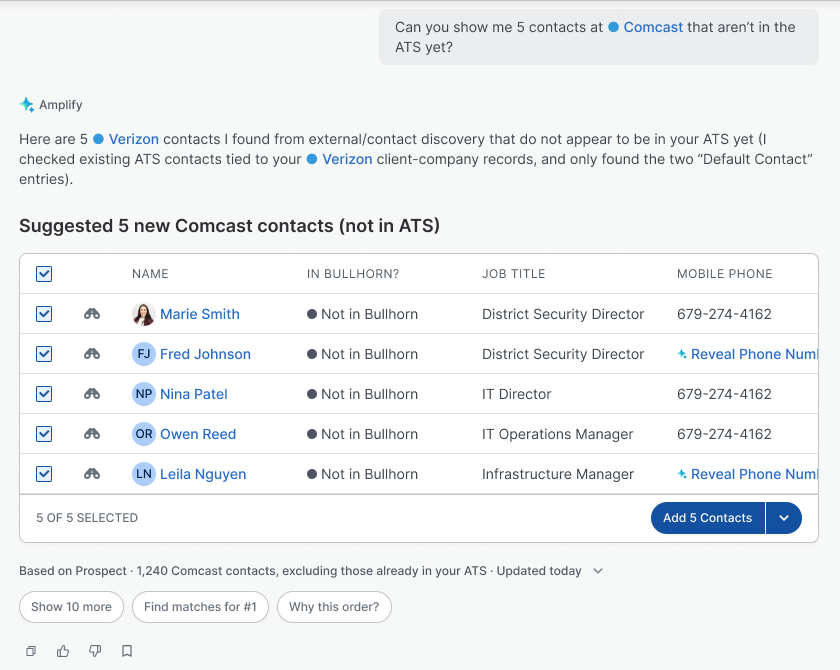
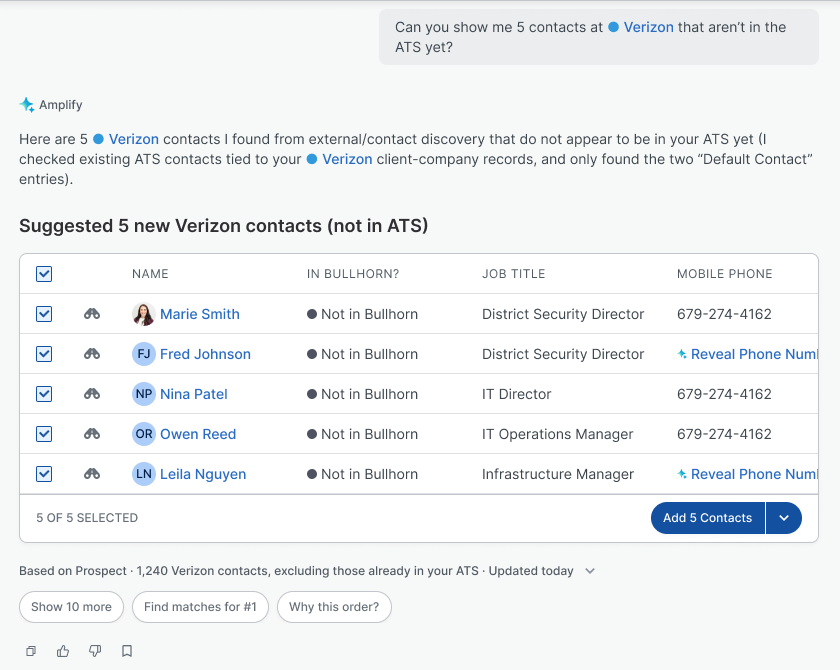
Update response structure and record preview images

Changed region(s): [[0.1857, 0.8358, 0.7119, 0.8657], [0.1857, 0.3284, 0.5262, 0.3582], [0.7429, 0.0299, 0.9595, 0.0597]]

diff --git a/docs/amplify/amplify-chat-interface-patterns.html b/docs/amplify/amplify-chat-interface-patterns.html
@@ -52,7 +52,7 @@
 <p>Every reply follows the same top-to-bottom order, so replies are predictable to scan and the answer always comes first (NN/g truncated pyramid; Gestalt continuity).</p>
 <figure class="anno">
 <div class="anno-wrap">
-<img src="../images/amplify-chat/response-structure.png" alt="An Amplify reply listing 5 Comcast contacts in a data table, with labeled parts">
+<img src="../images/amplify-chat/response-structure.png" alt="An Amplify reply listing 5 Verizon contacts in a data table, with labeled parts">
 <span class="mk" style="top:6%">1</span><span class="mk" style="top:15.5%">2</span><span class="mk" style="top:23.6%">3</span><span class="mk" style="top:33.7%">4</span><span class="mk" style="top:40.7%">5</span><span class="mk" style="top:77.3%">6</span><span class="mk" style="top:85.2%">7</span><span class="mk" style="top:90.6%">8</span><span class="mk" style="top:97.2%">9</span>
 </div>
 <figcaption>Prospect contacts reply · <a href="https://www.figma.com/design/QxXJfpYajGitTbThkkQCXm/Component-Migration?node-id=6267-181805" target="_blank" rel="noopener">Open frame in Figma ↗</a></figcaption>
